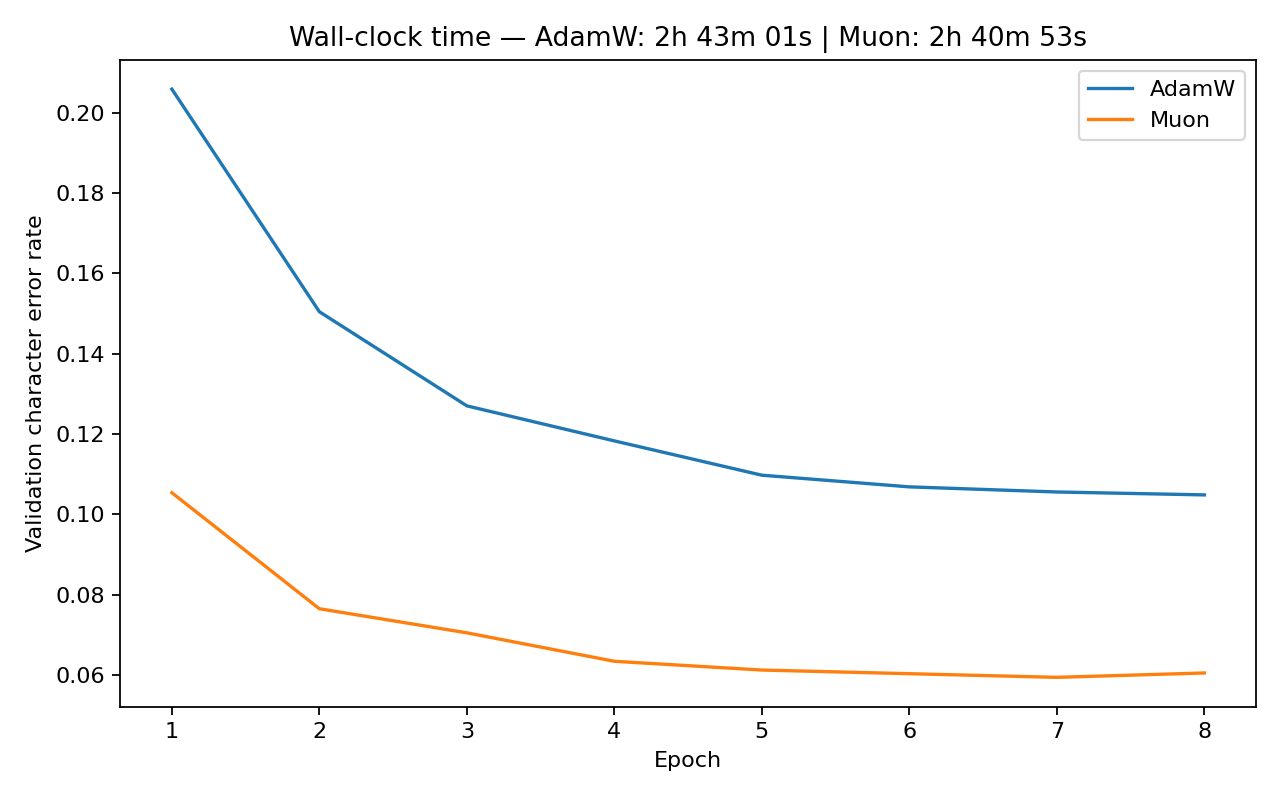
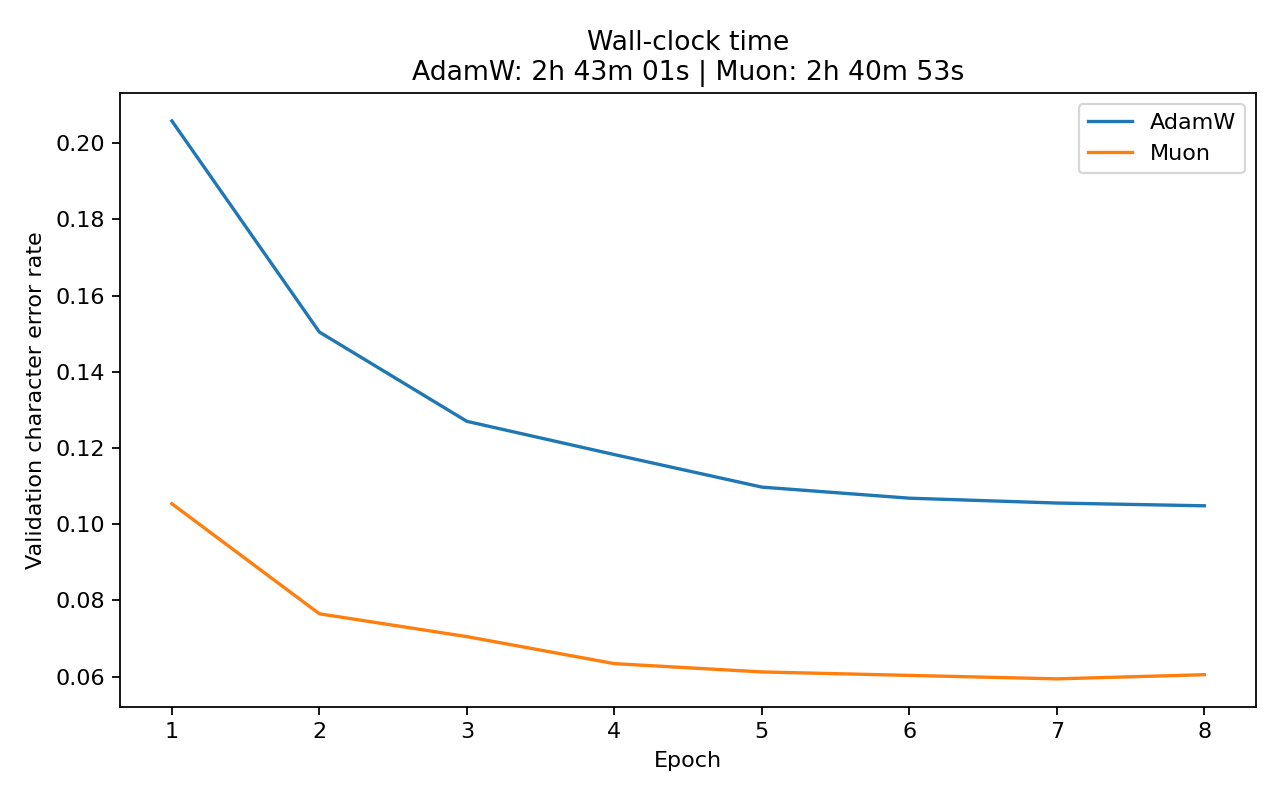
make baseline timing labels readable

diff --git a/src/artifacts.py b/src/artifacts.py
@@ -35,7 +35,7 @@ def write_metric_plot(
             minutes, remaining_seconds = divmod(remainder, 60)
             return f"{hours}h {minutes}m {remaining_seconds:02d}s" if hours else f"{minutes}m {remaining_seconds:02d}s"
 
-        axis.set_title(f"Wall-clock time — AdamW: {format_runtime(runtimes['AdamW'])} | Muon: {format_runtime(runtimes['Muon'])}")
+        axis.set_title(f"Wall-clock time\nAdamW: {format_runtime(runtimes['AdamW'])} | Muon: {format_runtime(runtimes['Muon'])}")
     axis.legend()
     figure.tight_layout()
     figure.savefig(output, dpi=160)

diff --git a/tests/test_artifacts.py b/tests/test_artifacts.py
@@ -36,7 +36,7 @@ def test_metric_plot_titles_each_optimizer_wall_clock_duration(tmp_path: Path, m
         {"AdamW": 120.0, "Muon": 130.0},
     )
 
-    assert titles == ["Wall-clock time — AdamW: 2m 00s | Muon: 2m 10s"]
+    assert titles == ["Wall-clock time\nAdamW: 2m 00s | Muon: 2m 10s"]
 
 
 def test_trial_checkpoint_restores_epoch_elapsed_time_and_optimizer_state(tmp_path: Path):
